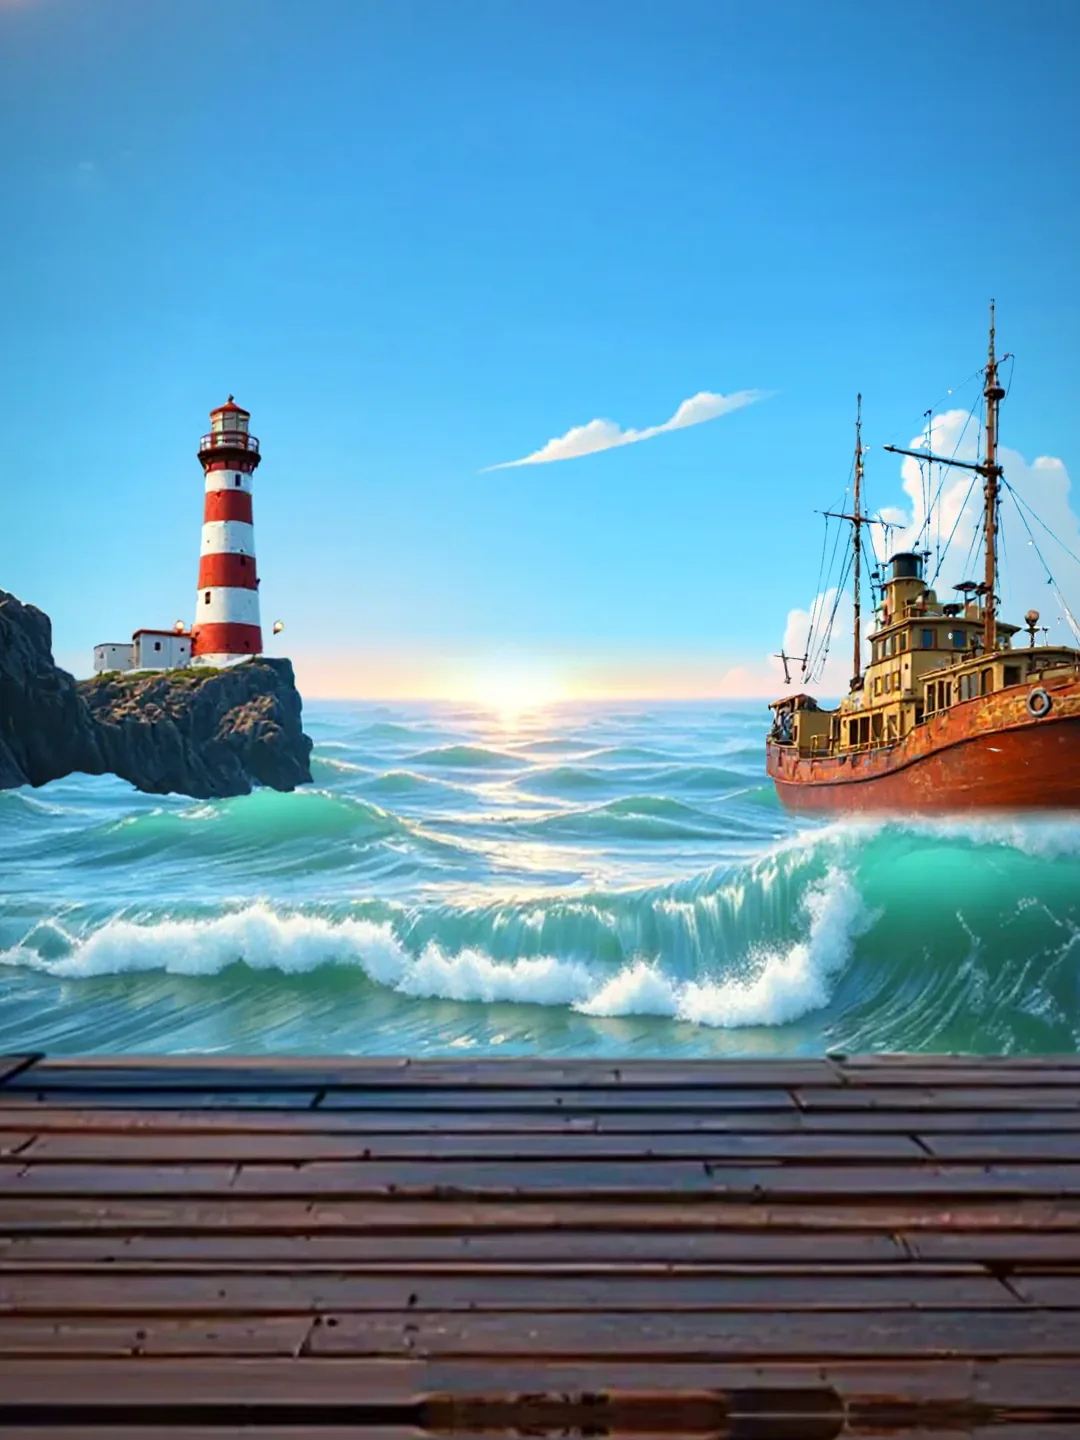
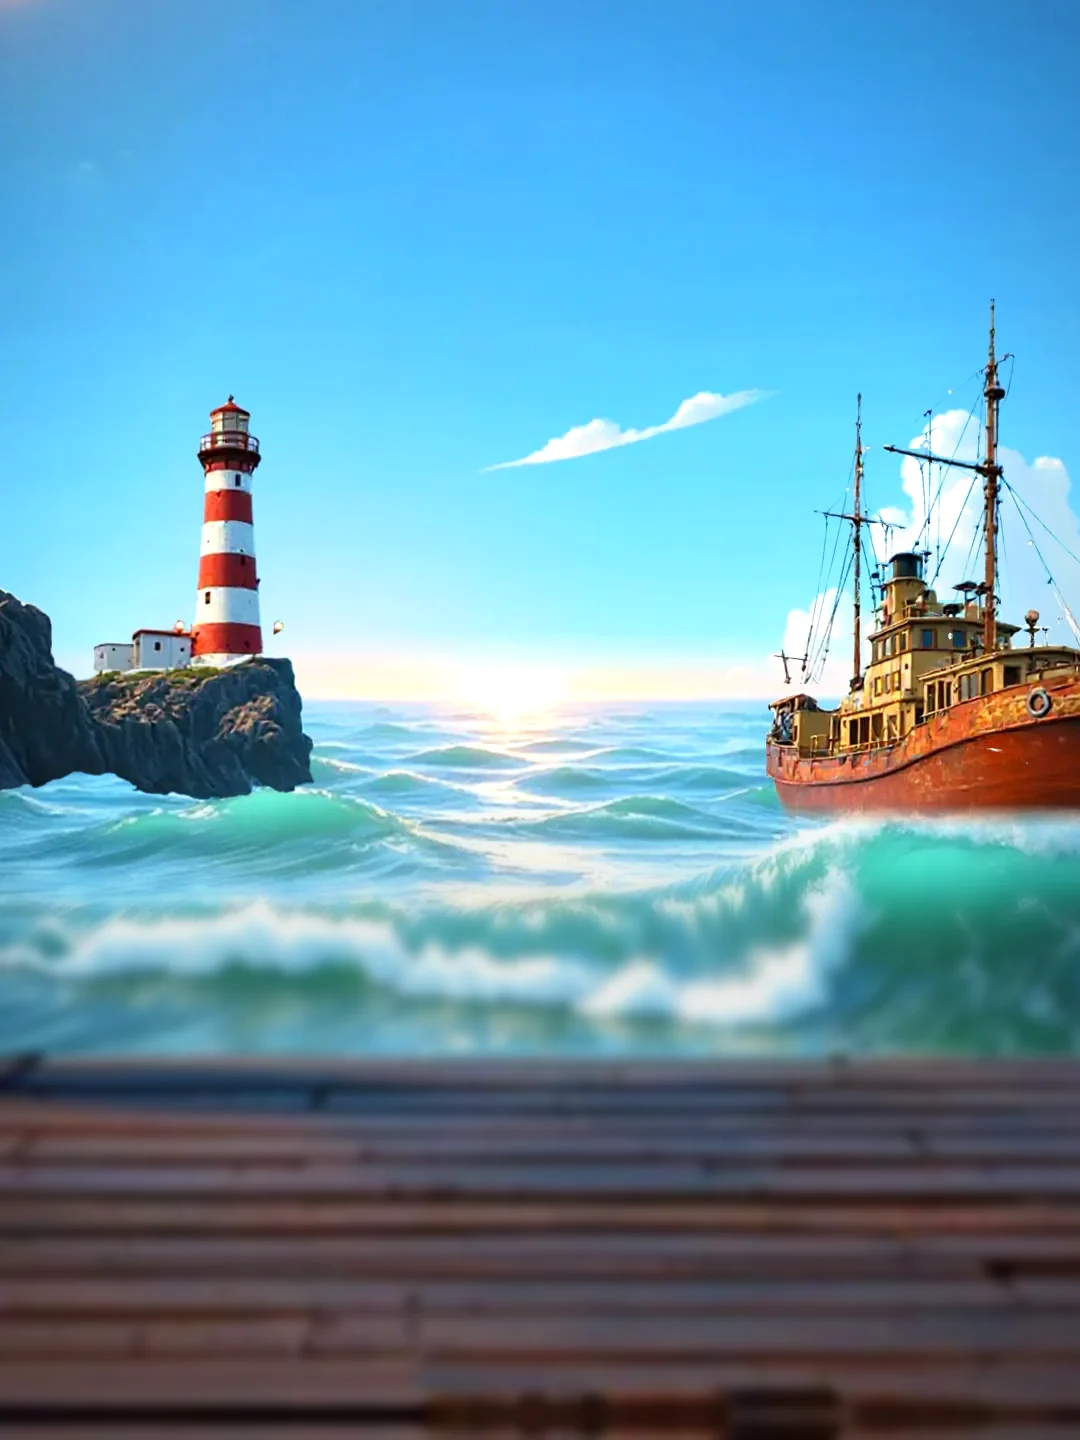
Bloody Seafood: Stake Media Editor layers - character-only shark foreground, calmer tile background

diff --git a/apps/bloody_seafood/thumbnails/make_fg_character.py b/apps/bloody_seafood/thumbnails/make_fg_character.py
@@ -1,0 +1,72 @@
+"""Stake Media Editor layers (v5.4 daylight): the CHARACTER foreground alone - the
+closed-mouth side-profile shark from the v5.4 rig, day-graded and given the symbols'
+hand-crafted finish, trimmed tight on transparency - plus a brighter tile background with
+calm detail under the editor's title band, and placement mockups.
+    python3 thumbnails/make_fg_character.py"""
+import ast, os
+import cv2
+import numpy as np
+from PIL import Image, ImageDraw, ImageEnhance, ImageFilter, ImageFont
+os.chdir(os.path.dirname(os.path.abspath(__file__)))
+HERO = '/root/bs-render/render/rig/h1_shark_v3/hero_v54side/hero_fixed.png'
+ns = {'np': np, 'cv2': cv2, 'Image': Image}
+src = ast.parse(open('/root/bs-render/pack_symbol3d.py').read())
+for n in src.body:
+    if getattr(n, 'name', '') == 'craft' or (isinstance(n, ast.Assign) and getattr(n.targets[0], 'id', '') == 'RIM_DIR'):
+        exec(compile(ast.Module([n], []), 'craft', 'exec'), ns)
+bsrc = ast.parse(open('build_tile_v2.py').read())
+bns = {'np': np, 'Image': Image, 'DAY': True}
+for n in bsrc.body:
+    if getattr(n, 'name', '') == 'day_grade':
+        exec(compile(ast.Module([n], []), 'day', 'exec'), bns)
+
+shark = Image.open(HERO).convert('RGBA')
+shark = shark.rotate(-8, resample=Image.BICUBIC, expand=True)        # a slight rising lunge
+shark = shark.crop(shark.getchannel('A').point(lambda v: 255 if v > 6 else 0).getbbox())
+k = 1600 / max(shark.size)
+shark = shark.resize((round(shark.width * k), round(shark.height * k)), Image.LANCZOS)
+shark = bns['day_grade'](shark)
+shark = ns['craft'](shark, 900)          # outline/rim widths scaled for a ~900 px-tall subject
+# clean alpha: no colour carried in fully transparent pixels, then pad 8 px
+a = np.asarray(shark).copy(); a[a[..., 3] == 0, :3] = 0
+shark = Image.fromarray(a)
+P = 8
+out = Image.new('RGBA', (shark.width + 2 * P, shark.height + 2 * P), (0, 0, 0, 0)); out.alpha_composite(shark, (P, P))
+stem = 'bloody_seafood_fg_character_v5_4_day'
+out.save(stem + '.png', optimize=True); out.save(stem + '.webp', quality=92, method=6, exact=True)
+for name, col in (('black', (0, 0, 0, 255)), ('white', (255, 255, 255, 255))):
+    t = Image.new('RGBA', out.size, col); t.alpha_composite(out); t.convert('RGB').save(f'{stem}_on_{name}_check.jpg', quality=88)
+print(stem, out.size)
+
+# tile background: brighter, and the bottom 40% (under the editor's title band) calmed
+bg = Image.open('bloody_seafood_tile_3x4_v5_4_bg_day.webp').convert('RGB')
+bg = ImageEnhance.Brightness(bg).enhance(1.1)
+W, H = bg.size
+soft = ImageEnhance.Brightness(bg.filter(ImageFilter.GaussianBlur(6))).enhance(0.92)
+m = np.clip((np.arange(H) - H * 0.55) / (H * 0.1), 0, 1)[:, None].repeat(W, 1)
+bg = Image.composite(soft, bg, Image.fromarray((m * 255).astype(np.uint8)))
+bg.save('bloody_seafood_tile_3x4_v5_4_bg_day.webp', quality=86, method=6)
+bg.save('bloody_seafood_tile_3x4_v5_4_bg_day_preview.png')
+
+# mockups: 16:9 with the shark in the right 60% focus box; 3:4 with it in the upper-middle
+# key focus area and a stand-in for Stake's red title band over the bottom 40%
+font = ImageFont.truetype('/usr/share/fonts/truetype/dejavu/DejaVuSans-Bold.ttf', 64)
+small = ImageFont.truetype('/usr/share/fonts/truetype/dejavu/DejaVuSans-Bold.ttf', 30)
+cov = Image.open('bloody_seafood_cover_16x9_v5_4_bg_day.webp').convert('RGBA')
+box = (round(1920 * 0.4), 0, 1920, 1080)
+f = out.copy(); f.thumbnail((round((box[2] - box[0]) * 0.92), round(1080 * 0.8)), Image.LANCZOS)
+cov.alpha_composite(f, (box[0] + (box[2] - box[0] - f.width) // 2, (1080 - f.height) // 2))
+d = ImageDraw.Draw(cov); d.rectangle(box, outline=(255, 255, 0, 255), width=3)
+cov.convert('RGB').save('mockup_cover_16x9_v5_4_day.jpg', quality=88)
+til = bg.convert('RGBA')
+f = out.copy(); f.thumbnail((round(W * 0.9), round(H * 0.42)), Image.LANCZOS)
+til.alpha_composite(f, ((W - f.width) // 2, round(H * 0.12)))
+band = Image.new('RGBA', (W, round(H * 0.4)), (0, 0, 0, 0))
+ba = np.linspace(0, 235, band.height)[:, None].repeat(W, 1).astype(np.uint8)
+band = Image.merge('RGBA', [Image.new('L', band.size, 150), Image.new('L', band.size, 10), Image.new('L', band.size, 18), Image.fromarray(ba)])
+til.alpha_composite(band, (0, H - band.height))
+d = ImageDraw.Draw(til)
+for txt, fnt, y in (('BLOODY SEAFOOD', font, H - 230), ('STEEL GAMING', small, H - 140)):
+    w = d.textlength(txt, font=fnt); d.text(((W - w) / 2, y), txt, fill=(255, 255, 255, 255), font=fnt)
+til.convert('RGB').save('mockup_tile_3x4_v5_4_day.jpg', quality=88)
+print('mockups done')

diff --git a/apps/bloody_seafood/thumbnails/split_fg.py b/apps/bloody_seafood/thumbnails/split_fg.py
@@ -1,0 +1,23 @@
+"""Foreground layer for the studio's title art: the finished composite minus its background,
+on full transparency, registered pixel-for-pixel so fg over bg reproduces the composite.
+    python3 thumbnails/split_fg.py <composite.webp> <bg.webp> <alpha.png> <out stem>
+alpha = the foreground's coverage (build_tile_v2.py FG_ALPHA); colour is un-composited
+(c = (C - B(1-a)) / a), so there is no background fringe in the soft edges."""
+import sys
+import numpy as np
+from PIL import Image
+C = np.asarray(Image.open(sys.argv[1]).convert('RGB')).astype(np.float32)
+B = np.asarray(Image.open(sys.argv[2]).convert('RGB')).astype(np.float32)
+A = np.asarray(Image.open(sys.argv[3])).astype(np.float32) / 255
+a = np.where(A < 2 / 255, 0, A)[..., None]
+F = np.where(a > 0, (C - B * (1 - a)) / np.maximum(a, 1e-3), 0).clip(0, 255)
+out = np.dstack([F, a[..., 0] * 255]).round().astype(np.uint8)
+im = Image.fromarray(out, 'RGBA')
+im.save(sys.argv[4] + '.png', optimize=True)
+im.save(sys.argv[4] + '.webp', quality=92, method=6, exact=True)
+# checks: fg over bg vs the composite, and the edges on black and on white
+back = Image.fromarray(B.astype(np.uint8)).convert('RGBA'); back.alpha_composite(im)
+diff = np.abs(np.asarray(back.convert('RGB')).astype(int) - C.astype(int))
+print(sys.argv[4], im.size, 'fg-over-bg vs composite: mean', round(float(diff.mean()), 3), 'p99.9', int(np.percentile(diff, 99.9)))
+for name, col in (('black', (0, 0, 0, 255)), ('white', (255, 255, 255, 255))):
+    t = Image.new('RGBA', im.size, col); t.alpha_composite(im); t.convert('RGB').save(f'{sys.argv[4]}_on_{name}_check.jpg', quality=88)

diff --git a/apps/bloody_seafood/thumbnails/build_tile_v2.py b/apps/bloody_seafood/thumbnails/build_tile_v2.py
@@ -199,6 +199,11 @@ if not DAY:
     beam.putalpha(beam.getchannel('A').point(lambda v: v * 150 // 255))
     canvas.alpha_composite(beam, (round(lamp[0]), round(lamp[1] - beam.height / 2)))
 
+# FG_ALPHA=<path>: draw everything from here on onto a transparent canvas and save its
+# alpha - the coverage of the foreground layer (thumbnails/split_fg.py un-composites the
+# finished cover with it into a transparent foreground over the _bg plate)
+if os.environ.get('FG_ALPHA'):
+    canvas = Image.new('RGBA', (W, H), (0, 0, 0, 0))
 if FULL:
     # ------------------------------------------------------------------ the tank
     TK = L['TK']                                # tank art is 2240 px square
@@ -379,6 +384,11 @@ if FULL:
     LX, LY = L['logo'][0] if L['logo'][0] is not None else (W - logo.width) // 2, L['logo'][1]
     canvas.alpha_composite(lsh, (LX - lpad + px(8), LY - lpad + px(16)))
     canvas.alpha_composite(logo, (LX, LY))
+
+if os.environ.get('FG_ALPHA'):
+    canvas.getchannel('A').save(os.environ['FG_ALPHA'])
+    print('fg alpha', os.environ['FG_ALPHA'])
+    sys.exit(0)
 
 # ------------------------------------------------------------------- finish
 rgb = canvas.convert('RGB')
